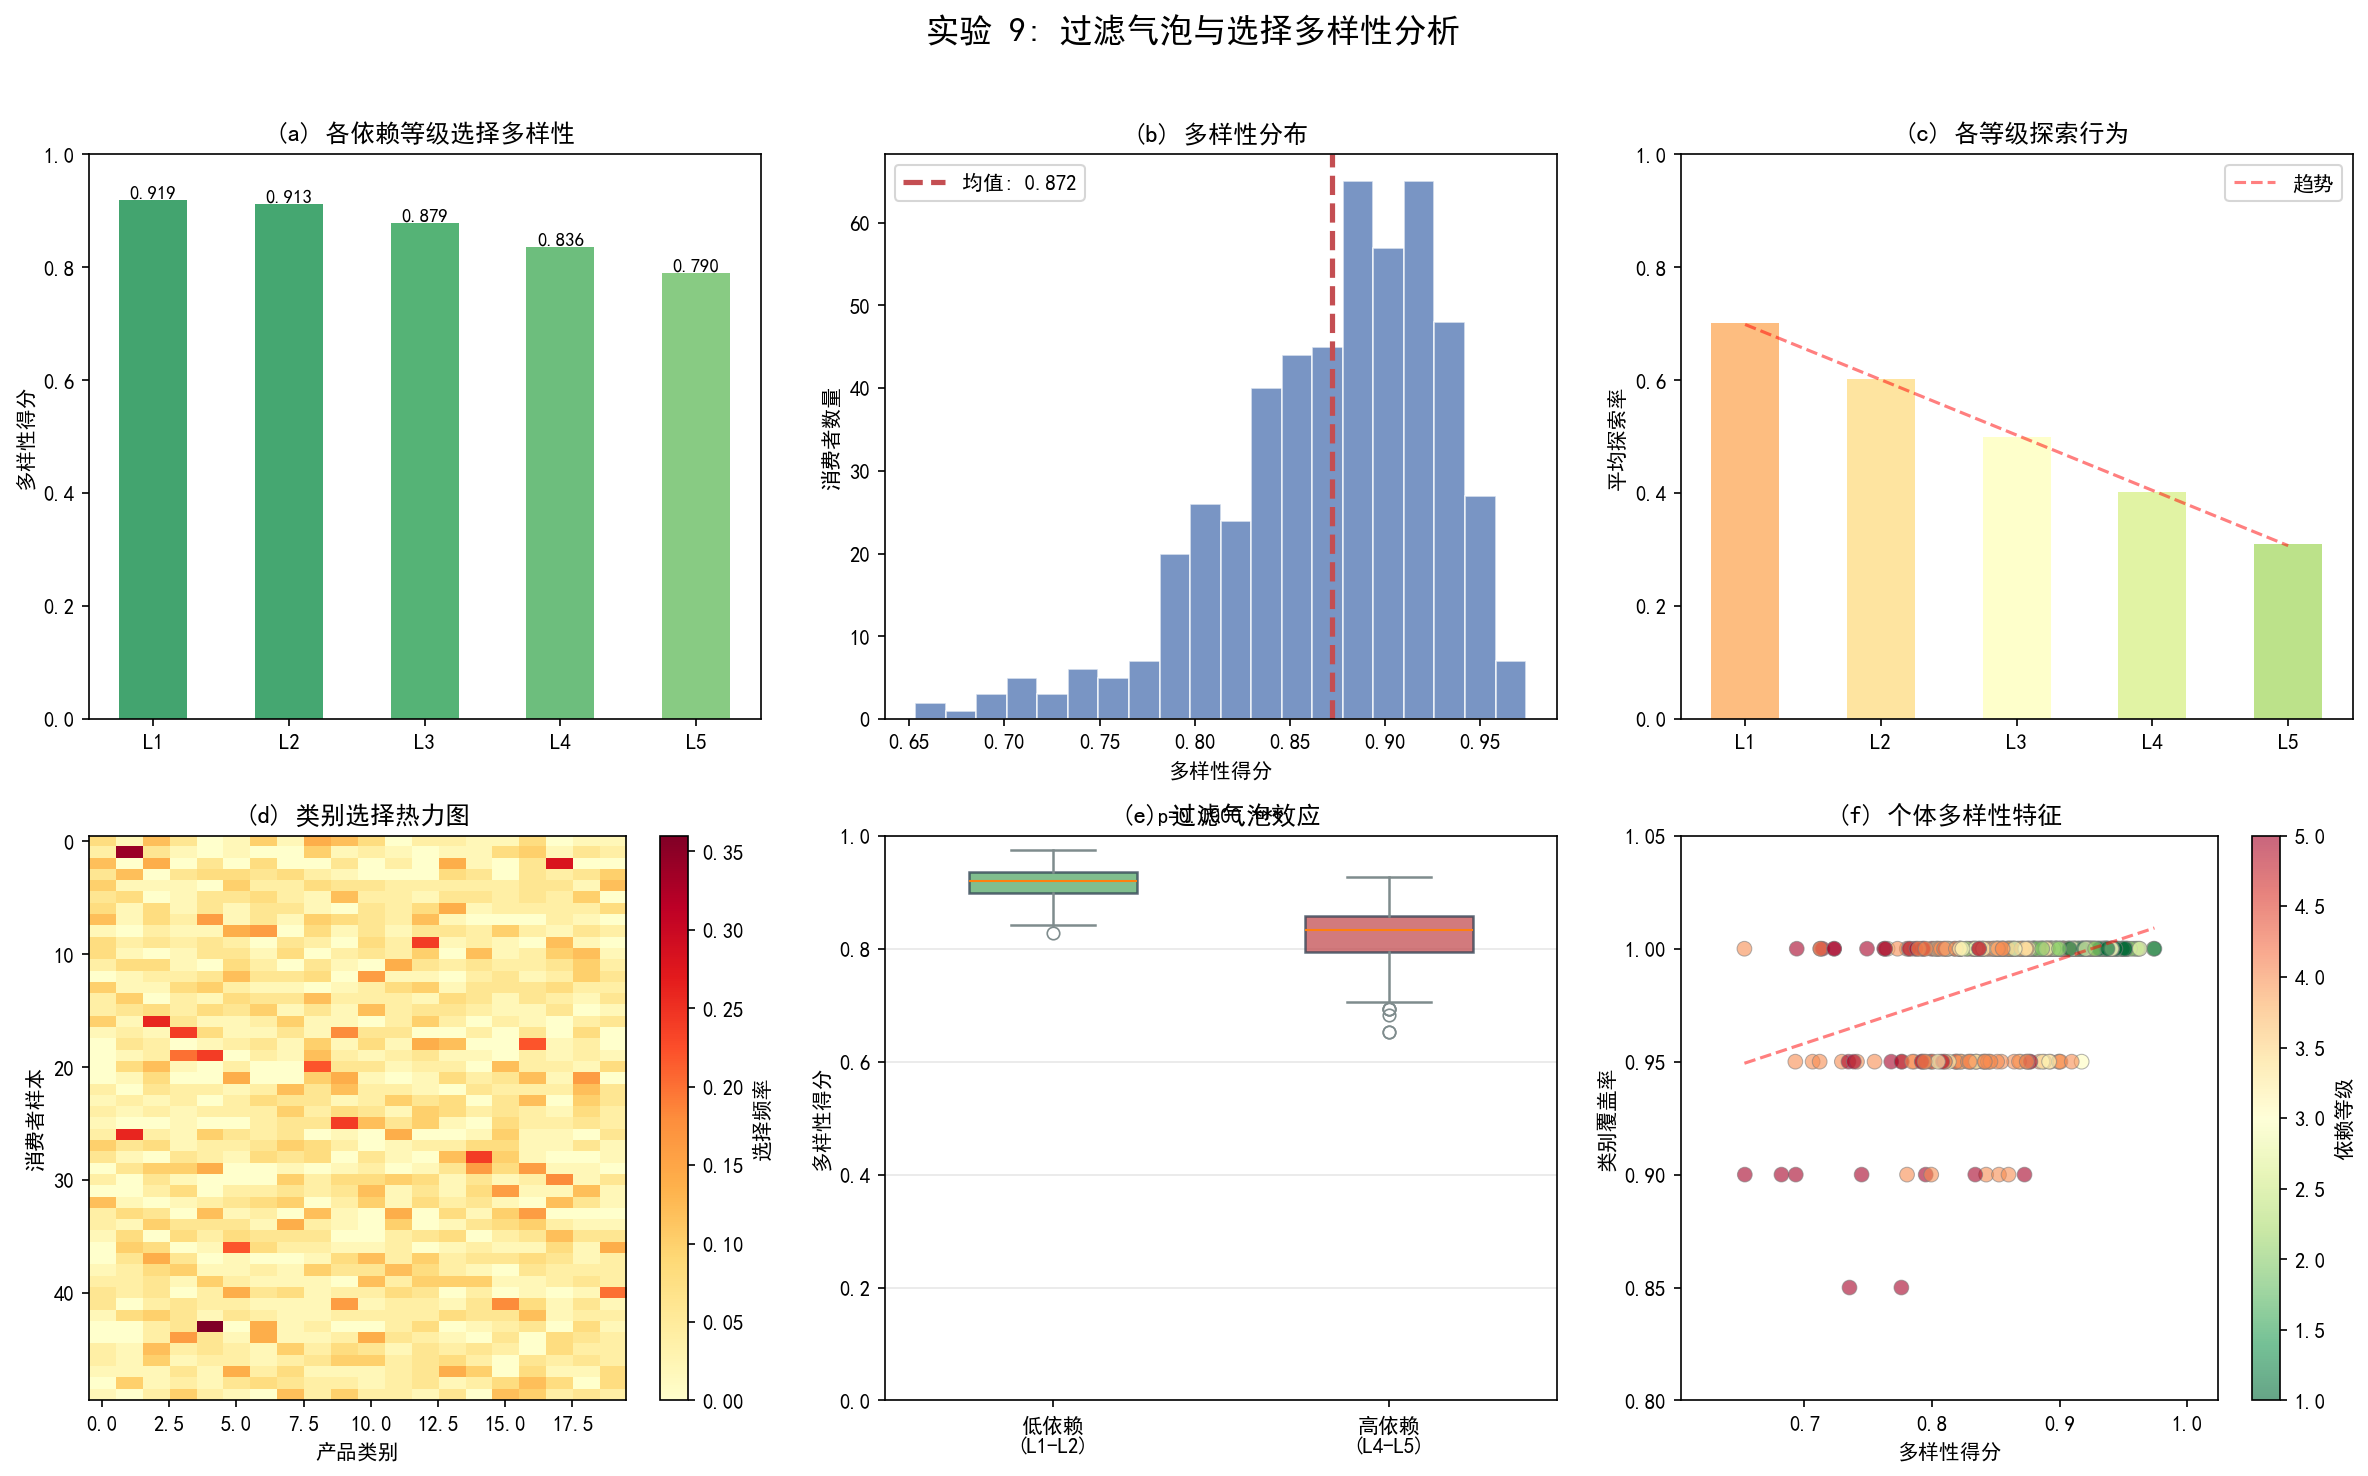
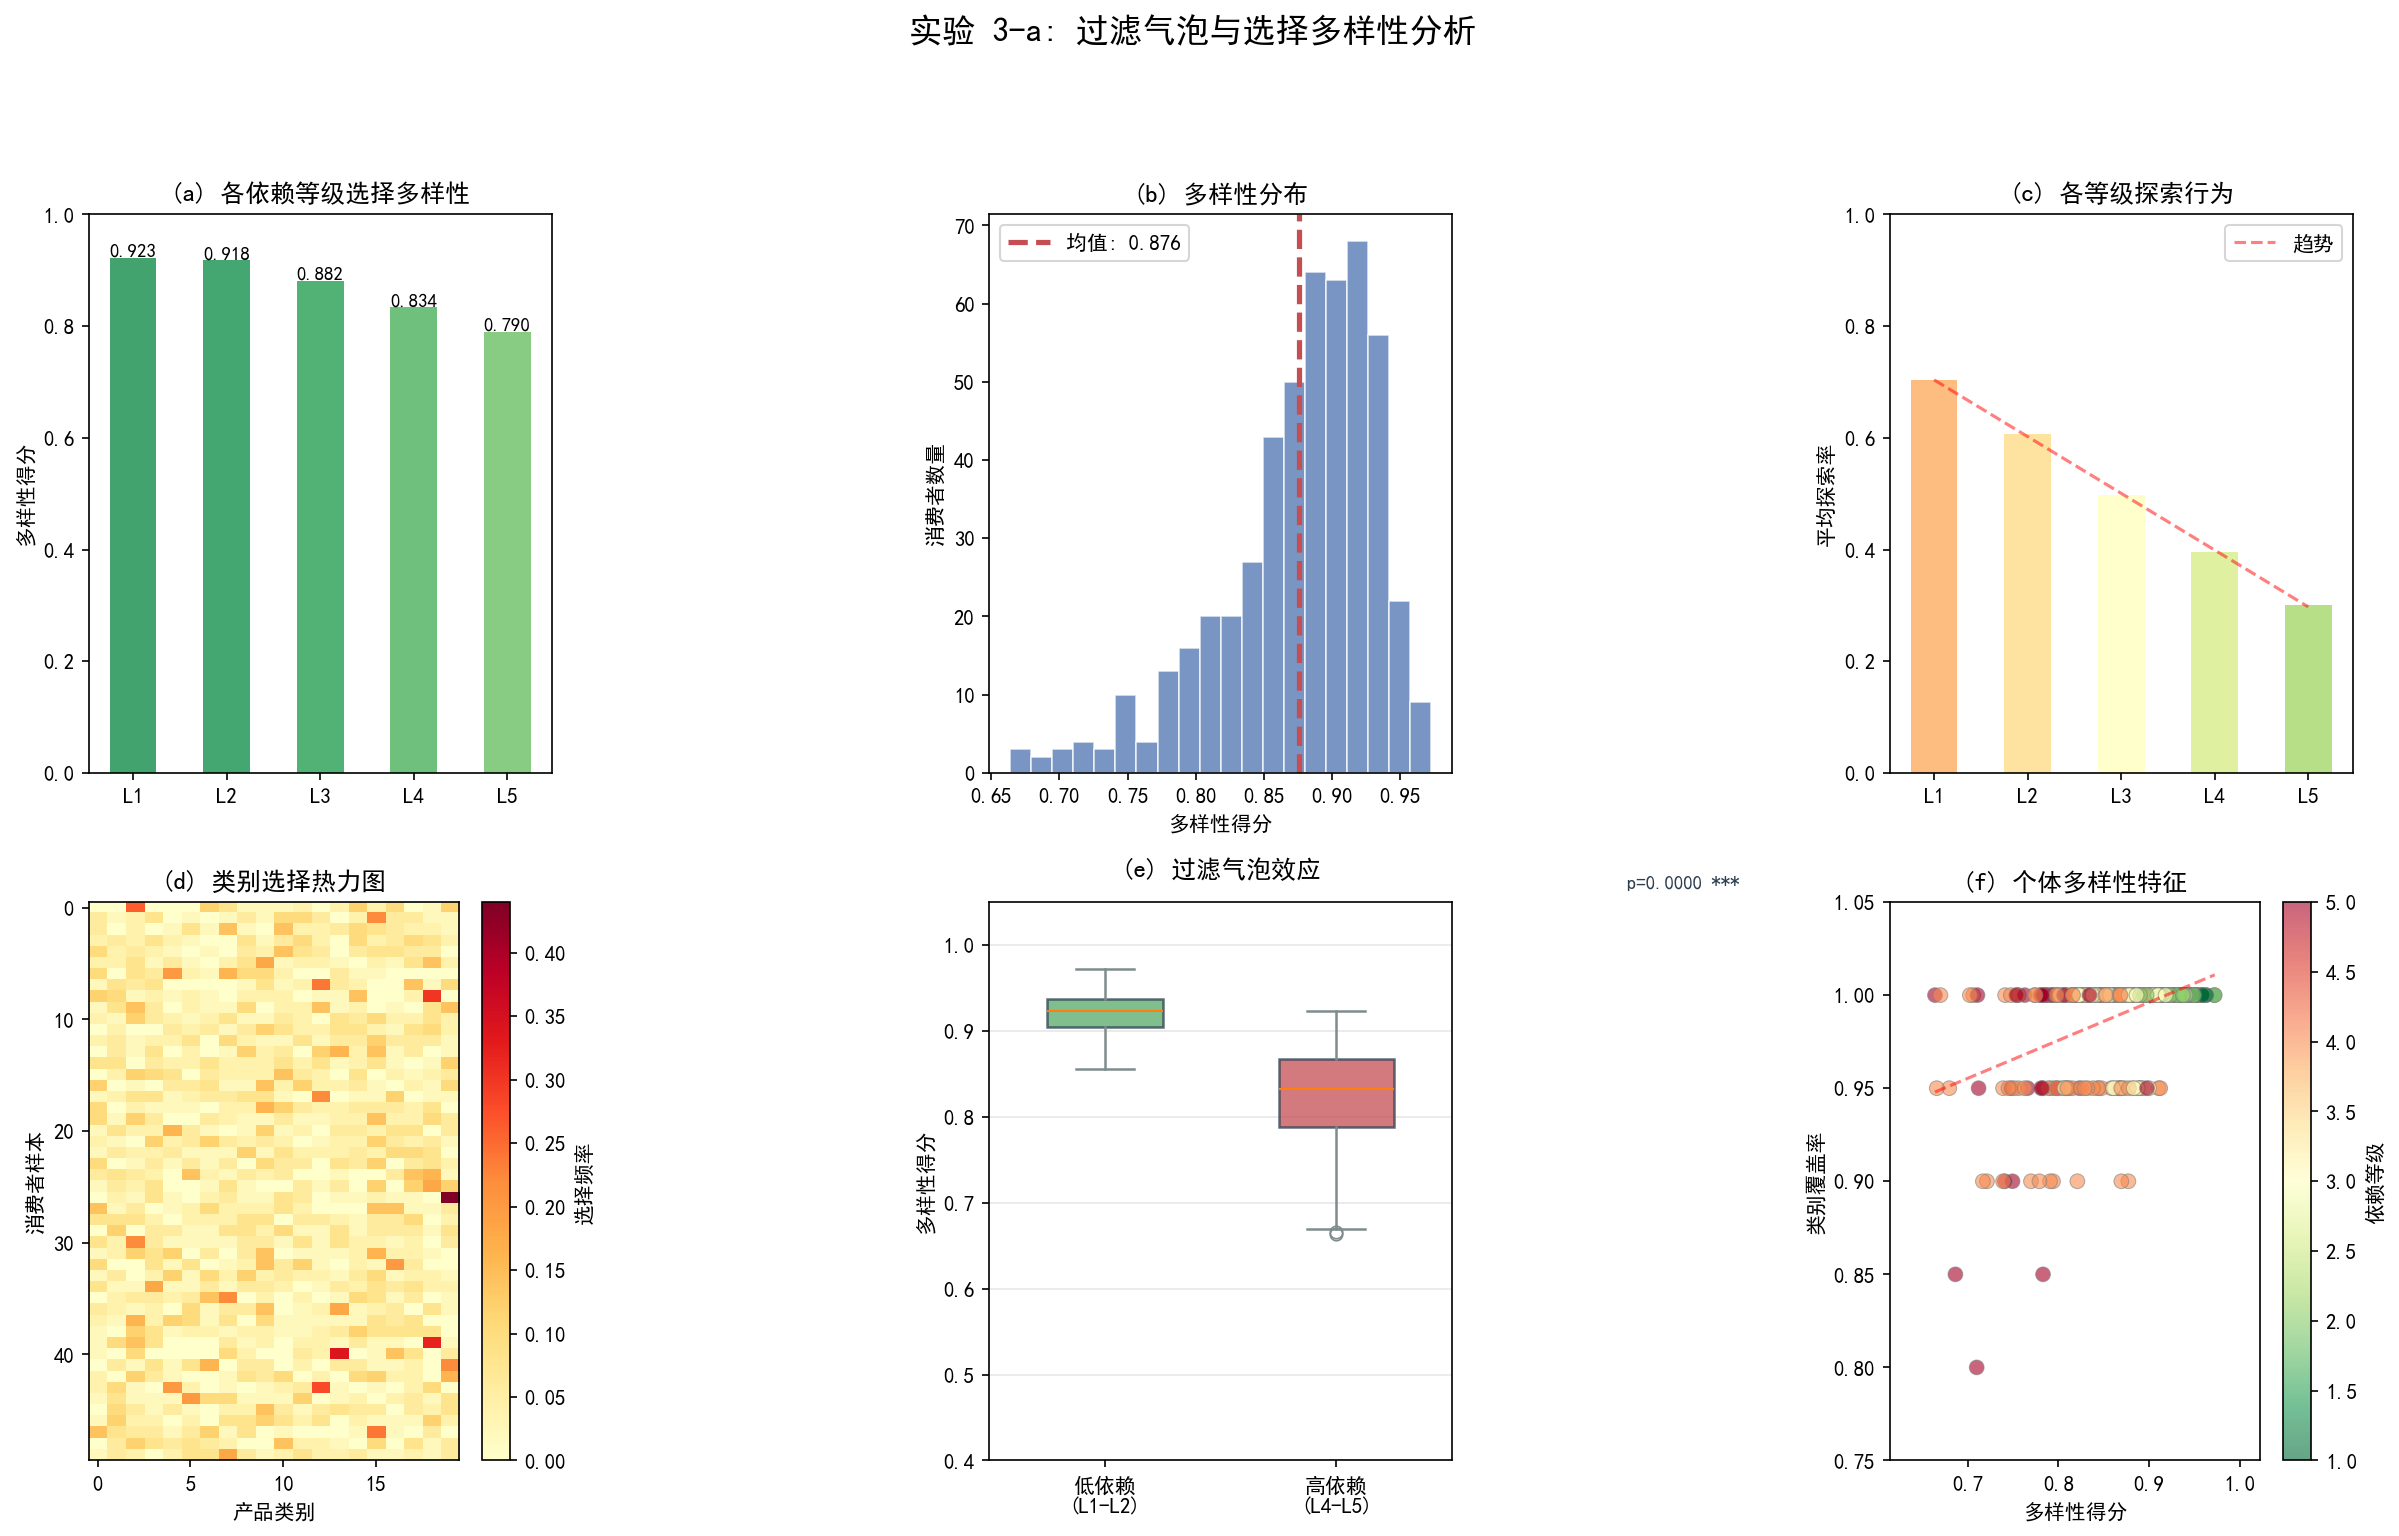
fix: 修正实验3可视化标题和过滤气泡图布局
- 修正实验标题编号:
  * 实验3-a: '实验 9'  '实验 3-a'
  * 实验3-b: '实验 10'  '实验 3-b'
  * 调整suptitle位置y=0.981.02避免重叠

- 优化过滤气泡图(e)布局:
  * 增加标题pad=12避免与图表内容重叠
  * Y轴范围调整为0.4-1.05(根据实际数据范围)
  * p值标注使用transform=ax.transAxes定位到图表上方
  * 避免标注与标题碰撞
  * 字体大小调整为9,颜色#2C3E50

diff --git a/abm_simulation/experiments/exp3_consequences/filter_bubble/visualization_filter_bubble.py b/abm_simulation/experiments/exp3_consequences/filter_bubble/visualization_filter_bubble.py
@@ -47,7 +47,7 @@ def visualize_filter_bubble_results(analyzer, results, output_dir: str = None):
     ax6 = plt.subplot(2, 3, 6)
     _plot_individual_diversity(ax6, results)
     
-    plt.suptitle('实验 9: 过滤气泡与选择多样性分析', fontsize=16, fontweight='bold', y=0.98)
+    plt.suptitle('实验 3-a: 过滤气泡与选择多样性分析', fontsize=16, fontweight='bold', y=1.02)
     plt.tight_layout(rect=[0, 0, 1, 0.96])  # 为 suptitle 留出空间
     plt.savefig(f'{output_dir}/filter_bubble_analysis.png', dpi=150, bbox_inches='tight')
     plt.close()
@@ -196,8 +196,8 @@ def _plot_filter_bubble_strength(ax, results):
                 item.set_linewidth(1.2)
     
     ax.set_ylabel('多样性得分')
-    ax.set_title('(e) 过滤气泡效应')
-    ax.set_ylim(0, 1)
+    ax.set_title('(e) 过滤气泡效应', pad=12)  # 增加标题与图表的间距
+    ax.set_ylim(0.4, 1.05)  # 根据实际数据调整Y轴范围
     ax.grid(True, alpha=0.3, axis='y')
     
     # 添加统计检验标注
@@ -206,8 +206,10 @@ def _plot_filter_bubble_strength(ax, results):
         t_stat, p_value = stats.ttest_ind(low_dep_scores, high_dep_scores)
         significance = '***' if p_value < 0.001 else '**' if p_value < 0.01 else '*' if p_value < 0.05 else 'ns'
         y_max = max(max(low_dep_scores), max(high_dep_scores))
-        ax.text(1.5, y_max + 0.05, f'p={p_value:.4f} {significance}', 
-               ha='center', fontsize=10, fontweight='bold')
+        # 将标注位置调整到图表上方，避免与标题重叠
+        ax.text(1.5, 1.02, f'p={p_value:.4f} {significance}', 
+               ha='center', va='bottom', fontsize=9, fontweight='bold', 
+               transform=ax.transAxes, color='#2C3E50')
 
 
 def _plot_individual_diversity(ax, results):

diff --git a/abm_simulation/experiments/exp3_consequences/systemic_risk/visualization_systemic_risk.py b/abm_simulation/experiments/exp3_consequences/systemic_risk/visualization_systemic_risk.py
@@ -47,7 +47,7 @@ def visualize_systemic_risk_results(main_result, stress_results, risk_model, out
     ax6 = plt.subplot(2, 3, 6)
     _plot_resilience_assessment(ax6, main_result, risk_model)
     
-    plt.suptitle('实验 10: 系统性风险与级联失效分析', fontsize=16, fontweight='bold', y=0.98)
+    plt.suptitle('实验 3-b: 系统性风险与级联失效分析', fontsize=16, fontweight='bold', y=1.02)
     plt.tight_layout(rect=[0, 0, 1, 0.96])  # 为 suptitle 留出空间
     plt.savefig(f'{output_dir}/systemic_risk_analysis.png', dpi=150, bbox_inches='tight')
     plt.close()
